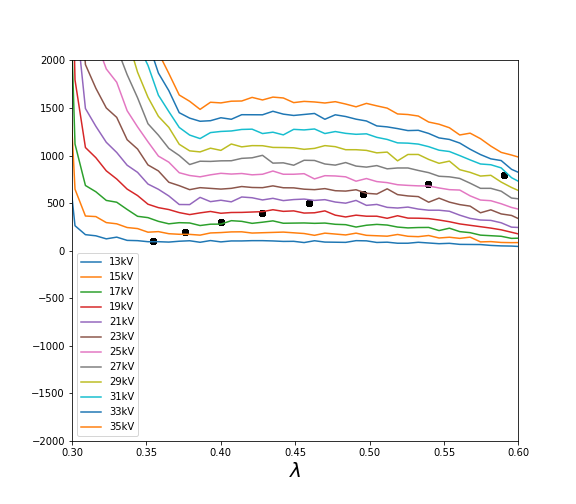
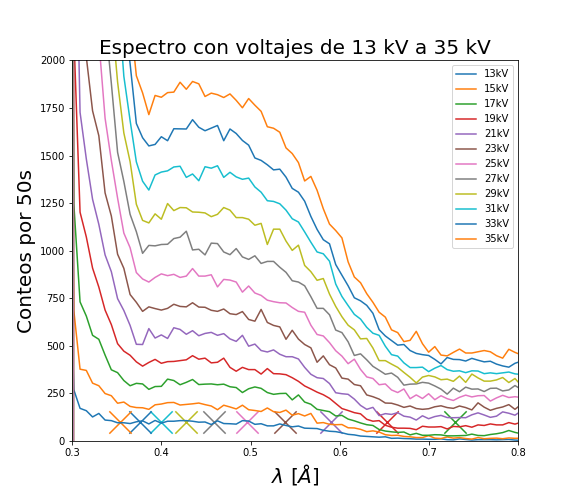
más análisis

diff --git a/LaboratorioAvanzado/Rayos X/analisis.py b/LaboratorioAvanzado/Rayos X/analisis.py
@@ -25,6 +25,8 @@ def l(theta,n=1):
     return 2*d*np.sin(np.pi*theta/180)/n*1e10
 #theta = np.arange(3.0,55,0.1)
 
+def correccion(N):
+    return N/(1-N*90e-6)
 
 #parte 4
 def average(datos,i):
@@ -56,6 +58,7 @@ nombres = ["13kV","15kV","17kV","19kV","21kV","23kV","25kV","27kV","29kV", "31kV
 voltajes = np.array([datos[:,1],datos[:,2],datos[:,3],datos[:,4],datos[:,5],datos[:,6],datos[:,7],datos[:,8],datos[:,9],datos[:,10],datos[:,11],datos[:,12]])
 volts = np.linspace(13000,35000,12)
 lamdaMin = []
+voltajes = correccion(voltajes)
 #dictionary = dict(zip(nombres, voltajes))
 
 #for i in range(10):
@@ -72,36 +75,44 @@ f = 24
 zeta = 120
 lMin = []
 print("f es ",f,l(angulos4[f]))
-for nombre,voltaje in zip(nombres[:a],voltajes[:a]):
+heh = np.max(l(angulos4)) - np.min(l(angulos4))
+for nombre,voltaje, numVolt in zip(nombres[:a],voltajes[:a],volts):
 #    voltaje = voltaje/voltaje.sum()
 #    voltaje = voltaje/max(voltaje)
-    print(nombre,l(angulos4[np.argmax(voltaje[f:zeta])+f]), np.argmax(voltaje[f:zeta])+f)
+#    print(nombre,l(angulos4[np.argmax(voltaje[f:zeta])+f]), np.argmax(voltaje[f:zeta])+f)
     plt.plot(l(angulos4[:zeta]),voltaje[:zeta],label=nombre)
-#    plt.scatter(lambdaMin(volts), np.linspace(1200,100, 12) ,color = 'black')
-    plt.scatter(lambdaMin(volts), np.linspace(100,1700, 12) ,color = 'black')
+    plt.scatter(lambdaMin(numVolt), np.array([100]) , s= 500, marker='x')
+    
     lMin.append(l(angulos4[np.argmax(voltaje[f:zeta])+f])/1.5)
-
+#plt.scatter(lambdaMin(volts), 100*np.ones(len(volts)) ,color = 'black', label = r'$\lambda_{min}$ teórico')
 lMin = np.array(lMin)
 #plt.xlim(3,6)
 #plt.xlim(19,23)    
 #plt.ylim(0,0.2)
-#plt.ylim(-2000,2000) 
 plt.ylim(0,2000) 
+#plt.ylim(0,100) 
 #plt.ylim(8000,15000)
 plt.xlim(.3,.8)
 #plt.xlim(.9,1.1)
 plt.legend()
-plt.xlabel(r"$\lambda$",fontsize=20)
-#plt.savefig("Ley de Duane-Hunt.png")
+plt.ylabel('Conteos por 50s',fontsize=20)
+plt.xlabel(r"$\lambda$ [$\AA$]",fontsize=20)
+plt.title("Espectro con voltajes de 13 kV a 35 kV",fontsize=20 )
+plt.savefig("Ley de Duane-Hunt.png")
 
 
 
 
 
 plt.figure(figsize=(8,7))
-plt.scatter(volts,lMin)
-plt.plot(volts,lambdaMin(volts))
+plt.scatter(volts/1000,lMin, label = 'Datos')
+plt.plot(volts/1000,lambdaMin(volts), label ='Ley de Duane-Hunt')
+plt.ylabel(r"$\lambda$ mínimo",fontsize=20)
+plt.xlabel("Voltaje [kV]",fontsize=20)
+plt.title(r"$\lambda_{min}$ vs voltaje del ánodo", fontsize=20)
+plt.legend()
 
+plt.savefig("ley duane hunt.png",dpi=600)
 
 #parte 1
 
@@ -136,8 +147,7 @@ plt.plot(volts,lambdaMin(volts))
 #angulos2 = dZn0075[:,0]/2
 #angulos2Continuos = np.linspace(min(angulos2),max(angulos2),500)/2
 #
-#def correccion(N):
-#    return N/(1-N*90e-6)
+
 #
 #filtros = np.array([dAl002,dAl004,dAl006,dAl01,dZn0025,dZn0075,dZn01,dNo]) - ruidoPequeño 
 #filtros = correccion(filtros)
